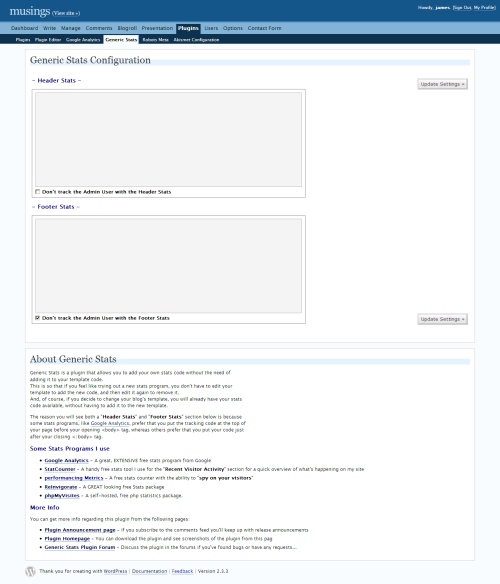
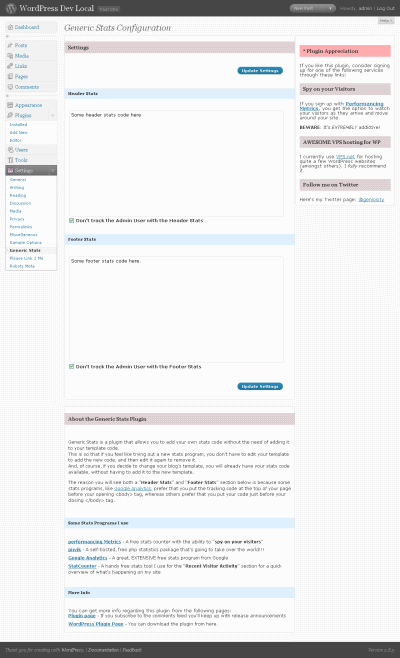
= 1.2 = * 2009/11/01 * Updated look & feel of admin page * Changed to use new "get options" methods * Added pretty little "Plugin Appreciation" box on the Admin page * Updated links to the plugin's pages
git-svn-id: https://plugins.svn.wordpress.org/generic-stats/trunk@169783 b8457f37-d9ea-0310-8a92-e5e31aec5664

Changed region(s): [[0.0, 0.524, 1.0, 1.0], [0.0, 0.0, 1.0, 0.4315], [0.84, 0.524, 0.93, 0.5548]]

diff --git a/genstats.php b/genstats.php
@@ -1,167 +1,156 @@
 <?php
 /*
 Plugin Name: Generic Stats
-Plugin URI: http://www.geniosity.co.za/tools/wordpress/
-Description: This plugin allows you to add any stats code to either the Header of Footer of your posts.
+Plugin URI: http://www.geniosity.co.za/tools/wordpress-hacks/generic-statistics-wordpress-plugin/
+Description: This plugin allows you to add any stats code to either the Header or Footer of your posts.
 Author: James McMullan
-Version: 1.1
+Version: 1.2
 Author URI: http://www.geniosity.co.za/
 */
 
-if ( ! class_exists( 'GenStats_Admin' ) ) {
+if(!class_exists( 'GenStats_Admin')) {
 
-	class GenStats_Admin {
-		function add_config_page() {
-			global $wpdb;
-			if ( function_exists('add_submenu_page') ) {
-				add_submenu_page('plugins.php','Generic Stats Configuration', 'Generic Stats', 1, basename(__FILE__),array('GenStats_Admin','config_page'));
-			}
-		} // end add_config_page()
+    class GenStats_Admin {
 
-		function config_page() {
-			if ( isset($_POST['submit']) ) {
-				if (!current_user_can('manage_options')) die(__('You cannot edit the GenStats plugin options.'));
-				check_admin_referer('genstats-udpatesettings');
-			}
+        function GenStats_Admin() {
+            add_action('admin_init', array(&$this,'genstats_init'));
+            add_action('admin_menu', array('GenStats_Admin','add_config_page'));
+            add_action('wp_head',  array('GenStats_Admin','gsAddHeaderStats'), 10);
+            add_action('wp_footer',  array('GenStats_Admin','gsAddFooterStats'), 10);
+        }
 
-			if ( isset($_POST['submit']) ) {
-				if (!current_user_can('manage_options')) die(__('You cannot edit the Robots Meta options.'));
-				check_admin_referer('genstats-udpatesettings');
+        function genstats_init() {
+            register_setting( 'genstats_options', 'GenStats');
+        }
 
-				if (isset($_POST['header-stats'])) {
-					$options['header-stats'] = $_POST['header-stats'];
-				}
+        function gsAddHeaderStats() {
+            $options = get_option('GenStats');
 
-				if (isset($_POST['disable-header-admin-stats'])) {
-					$options['disable-header-admin-stats'] = true;
-				} else {
-					$options['disable-header-admin-stats'] = false;
-				}
-				
-				if (isset($_POST['footer-stats'])) {
-					$options['footer-stats'] = $_POST['footer-stats'];
-				}
+            if ($options['header-stats'] != "") {
+                if (($options['disable-header-admin-stats'] && !current_user_can('edit_posts')) || !$options['disable-header-admin-stats']) {
+                    echo "\n" . stripslashes($options['header-stats']) . "\n";
+                }
+            }
+        }
 
-				if (isset($_POST['disable-footer-admin-stats'])) {
-					$options['disable-footer-admin-stats'] = true;
-				} else {
-					$options['disable-footer-admin-stats'] = false;
-				}
+        function gsAddFooterStats() {
+            $options = get_option('GenStats');
 
-				
-				update_option('GenStats', $options);
+            if ($options['footer-stats'] != "") {
+                if (($options['disable-footer-admin-stats'] && !current_user_can('edit_posts')) || !$options['disable-footer-admin-stats']) {
+                    echo "\n" . stripslashes($options['footer-stats']) . "\n";
+                }
+            }
+        }
 
-			}
-			
-			$options = get_option('GenStats');
+        function add_config_page() {
+        //add_submenu_page('plugins.php','Generic Stats Configuration', 'Generic Stats', 1, basename(__FILE__),array('GenStats_Admin','config_page'));
+            add_options_page('Generic Stats Configuration', 'Generic Stats', 'manage_options', 'genstats_options', array('GenStats_Admin','config_page'));
+        } // end add_config_page()
 
+        function config_page() {
 
-			?>
-			<div class="wrap">
-				<style type="text/css" media="screen">
-					p {
-						max-width: 600px;
-					}
-				</style>
-				<h2>Generic Stats Configuration</h2>
-				<fieldset>
-					<form action="" method="post" id="genstats-conf">
-						<?php if (function_exists('wp_nonce_field')) { wp_nonce_field('genstats-udpatesettings'); } ?>
-						<h3>- Header Stats -</h3>
-						<span style="float: right; margin-top: -30px;" class="submit"><input type="submit" name="submit" value="Update Settings &raquo;" /></span>
-						<table style="border: 1px solid grey; padding: 5px;">
-							<tr>
-								<td style="width: 30px;">
-									<textarea cols="100" rows="15" name="header-stats"><?php echo stripslashes($options['header-stats']) ?></textarea>
-								</td>
-							</tr>
-							<tr>
-								<td style="width: 30px;">
-									<input type="checkbox" id="disable-header-admin-stats" name="disable-header-admin-stats" <?php if ( $options['disable-header-admin-stats'] == true ) echo ' checked="checked" '; ?>/>
-									<label for="disable-header-admin-stats"><b>Don't track the Admin User with the Header Stats</b></label>
-								</td>
-							</tr>
-						</table>
+            ?>
 
-						<h3>- Footer Stats -</h3>
-						<table style="border: 1px solid grey; padding: 5px;">
-							<tr>
-								<td style="width: 30px;">
-									<textarea cols="100" rows="15" name="footer-stats"><?php echo stripslashes($options['footer-stats']) ?></textarea>
-								</td>
-							</tr>
-							<tr>
-								<td style="width: 30px;">
-									<input type="checkbox" id="disable-footer-admin-stats" name="disable-footer-admin-stats" <?php if ( $options['disable-footer-admin-stats'] == true ) echo ' checked="checked" '; ?>/>
-									<label for="disable-footer-admin-stats"><b>Don't track the Admin User with the Footer Stats</b></label>
-								</td>
-							</tr>
-						</table>
-						<span style="float: right; margin-top: -30px;" class="submit"><input type="submit" name="submit" value="Update Settings &raquo;" /></span>
-					</form>
-				</fieldset>
-				<br/><br/>
+<div class="wrap">
+    <h2>Generic Stats Configuration</h2>
+    <div class="postbox" style="width:20%;float:right;padding:10px;">
+        <h4 style="padding: 10px; background: #FFAFB2; font-family: Georgia,'Times New Roman','Bitstream Charter',Times,serif;">* Plugin Appreciation</h4>
+        If you like this plugin, consider signing up for one of the following services through these links:
+        <h4 style="padding: 10px; background: #DFD1D3; font-family: Georgia,'Times New Roman','Bitstream Charter',Times,serif;">Spy on your Visitors</h4>
+			If you sign up with <b><a href="http://pmetrics.performancing.com/480">Performancing Metrics</a></b>, you get the option to watch your visitors as they arrive and move around your site.
+        <p>
+            <b>BEWARE</b>: It's <i>EXTREMELY</i> addictive!
+        </p>
+        <h4 style="padding: 10px; background: #DFD1D3; font-family: Georgia,'Times New Roman','Bitstream Charter',Times,serif;">AWESOME VPS hosting for WP</h4>
+			I currently use <a href="http://manage.aff.biz/z/146/CD2453/&subid1=pl2me">VPS.net</a> for hosting quite a few WordPress websites (amongst others). I <i>fully</i> recommend it.
+        <h4 style="padding: 10px; background: #DFD1D3; font-family: Georgia,'Times New Roman','Bitstream Charter',Times,serif;">Follow me on Twitter</h4>
+			Here's my Twitter page: <a href="http://twitter.com/geniosity">@geniosity</a>
 
-			</div>
-			<div class="wrap">
-				<h2>About Generic Stats</h2>
-				<p>
-					Generic Stats is a plugin that allows you to add your own stats code without the need of adding it to your template code.<br />
-					This is so that if you feel like trying out a new stats program, you don't have to edit your template to add the new code, and then edit it again to remove it.<br />
-					And, of course, if you decide to change your blog's template, you will already have your stats code available, without having to add it to the new template.<br />
-				</p>
-				<p>
-					The reason you will see both a "<b>Header Stats</b>" and "<b>Footer Stats</b>" section below is because some stats programs, like <a href="http://www.google.com/analytics/">Google Analytics</a>, prefer that you put the tracking code at the top of your page before your opening &lt;body&gt; tag, whereas others prefer that you put your code just after your closing &lt;/body&gt; tag.
-				</p>
-				<p>
-					<h3>Some Stats Programs I use</h3>
-					<ul>
-						<li><b><a href="http://www.google.com/analytics/">Google Analytics</a></b> - A great, EXTENSIVE free stats program from Google</li>
-						<li><b><a href="http://www.statcounter.com">StatCounter</a></b> - A handy free stats tool I use for the "<b>Recent Visitor Activity</b>" section for a quick overview of what's happening on my site</li>
-						<li><b><a href="http://pmetrics.performancing.com/480">performancing Metrics</a></b> - A free stats counter with the ability to "<b>spy on your visitors</b>"</li>
-						<li><b><a href="http://www.reinvigorate.net/">ReInvigorate</a></b> - A GREAT looking free Stats package</li>
-						<li><b><a href="http://www.phpmyvisites.us/">phpMyVisites</a></b> - A self-hosted, free php statistics package.</li>
-					</ul>
-				</p>
-				<p>
-					<h3>More Info</h3>
-					You can get more info regarding this plugin from the following pages:
-					<ul>
-						<li><b><a href="http://www.geniosity.co.za/musings/wordpress/wordpress-generic-statistics-plugin/">Plugin Announcement page</a></b> - If you subscribe to the comments feed you'll keep up with release announcements</li>
-						<li><b><a href="http://www.geniosity.co.za/wordpress/generic-statistics-wordpress-plugin">Plugin Homepage</a></b> - You can download the plugin and see screenshots of the plugin from this pag</li>
-						<li><b><a href="http://www.geniosity.co.za/forums/tools/wordpress/generic-stats-plugin">Generic Stats Plugin Forum</a></b> - Discuss the plugin in the forums if you've found bugs or have any requests...</li>
-					</ul>
-				</p>
-			</div>
+    </div>
 
-<?php			
-		}
-	}
+    <div class="main-settings" style="display:table;width:70%;">
+        <div class="postbox">
+            <h4 style="padding: 10px; background: #DFD1D3; font-family: Georgia,'Times New Roman','Bitstream Charter',Times,serif;">Settings</h4>
+            <form method="post" action="options.php">
+                            <?php settings_fields('genstats_options'); ?>
+                            <?php $options = get_option('GenStats'); ?>
+                <div class="submit" style="text-align: right; padding-right:5%;"><input type="submit" class="button-primary" name="submit" value="Update Settings" /></div>
+                <h5 style="padding: 10px; background: #DFF1FF; font-family: Georgia,'Times New Roman','Bitstream Charter',Times,serif;">Header Stats</h5>
+                <table style="margin: 10px;">
+                    <tr>
+                        <td>
+                            <textarea cols="80" rows="15" name="GenStats[header-stats]"><?php echo stripslashes($options['header-stats']) ?></textarea>
+                        </td>
+                    </tr>
+                    <tr>
+                        <td>
+                            <input type="checkbox" id="disable-header-admin-stats" name="GenStats[disable-header-admin-stats]" <?php if ( $options['disable-header-admin-stats'] == true ) echo ' checked="checked" '; ?>/>
+                            <label for="disable-header-admin-stats"><b>Don't track the Admin User with the Header Stats</b></label>
+                        </td>
+                    </tr>
+                </table>
+
+                <h5 style="padding: 10px; background: #DFF1FF; font-family: Georgia,'Times New Roman','Bitstream Charter',Times,serif;">Footer Stats</h5>
+                <table style="margin: 10px;">
+                    <tr>
+                        <td>
+                            <textarea cols="80" rows="15" name="GenStats[footer-stats]"><?php echo stripslashes($options['footer-stats']) ?></textarea>
+                        </td>
+                    </tr>
+                    <tr>
+                        <td>
+                            <input type="checkbox" id="disable-footer-admin-stats" name="GenStats[disable-footer-admin-stats]" <?php if ( $options['disable-footer-admin-stats'] == true ) echo ' checked="checked" '; ?>/>
+                            <label for="disable-footer-admin-stats"><b>Don't track the Admin User with the Footer Stats</b></label>
+                        </td>
+                    </tr>
+                </table>
+                <div class="submit" style="text-align: right; padding-right:5%;"><input type="submit" class="button-primary" name="submit" value="Update Settings" /></div>
+            </form>
+        </div>
+
+        <div class="postbox" style="display:table;">
+            <h4 style="padding: 10px; background: #DFD1D3; font-family: Georgia,'Times New Roman','Bitstream Charter',Times,serif;">About the Generic Stats Plugin</h4>
+            <div class="postbox-content" style="padding: 10px;">
+                <p>
+                    Generic Stats is a plugin that allows you to add your own stats code without the need of adding it to your template code.<br />
+                    This is so that if you feel like trying out a new stats program, you don't have to edit your template to add the new code, and then edit it again to remove it.<br />
+                    And, of course, if you decide to change your blog's template, you will already have your stats code available, without having to add it to the new template.<br />
+                </p>
+                <p>
+                    The reason you will see both a "<b>Header Stats</b>" and "<b>Footer Stats</b>" section below is because some stats programs, like <a href="http://www.google.com/analytics/">Google Analytics</a>, prefer that you put the tracking code at the top of your page before your opening &lt;body&gt; tag, whereas others prefer that you put your code just before your closing &lt;/body&gt; tag.
+                </p>
+            </div>
+            <p>
+            <h5 style="padding: 10px; background: #DFF1FF; font-family: Georgia,'Times New Roman','Bitstream Charter',Times,serif;">Some Stats Programs I use</h5>
+            <div class="postbox-content" style="padding: 10px;">
+                <ul>
+                    <li><b><a href="http://pmetrics.performancing.com/480">performancing Metrics</a></b> - A free stats counter with the ability to "<b>spy on your visitors</b>"</li>
+                    <li><b><a href="http://piwik.org/">piwik</a></b> - A self-hosted, free php statistics package that's going to take over the world!!!</li>
+                    <li><b><a href="http://www.google.com/analytics/">Google Analytics</a></b> - A great, EXTENSIVE free stats program from Google</li>
+                    <li><b><a href="http://www.statcounter.com">StatCounter</a></b> - A handy free stats tool I use for the "<b>Recent Visitor Activity</b>" section for a quick overview of what's happening on my site</li>
+                </ul>
+            </div>
+            </p>
+            <p>
+            <h5 style="padding: 10px; background: #DFF1FF; font-family: Georgia,'Times New Roman','Bitstream Charter',Times,serif;">More Info</h5>
+            <div class="postbox-content" style="padding: 10px;">
+                You can get more info regarding this plugin from the following pages:
+                <ul>
+                    <li><b><a href="http://www.geniosity.co.za/tools/wordpress-hacks/generic-statistics-wordpress-plugin/">Plugin page</a></b> - If you subscribe to the comments feed you'll keep up with release announcements</li>
+                    <li><b><a href="http://wordpress.org/extend/plugins/generic-stats/">WordPress Plugin Page</a></b> - You can download the plugin from here.</li>
+                </ul>
+            </div>
+            </p>
+        </div>
+    </div>
+</div>
+
+        <?php
+        }
+    }
+
+    $genstatsadmin = new GenStats_Admin();
 }
-
-function gsAddHeaderStats() {
-	$options = get_option('GenStats');
-	
-	if ($options['header-stats'] != "") {
-		if (($options['disable-header-admin-stats'] && !current_user_can('edit_posts')) || !$options['disable-header-admin-stats']) {
-			echo "\n" . stripslashes($options['header-stats']) . "\n";
-		}
-	}
-
-}
-function gsAddFooterStats() {
-	$options = get_option('GenStats');
-	
-	if ($options['footer-stats'] != "") {
-		if (($options['disable-footer-admin-stats'] && !current_user_can('edit_posts')) || !$options['disable-footer-admin-stats']) {
-			echo "\n" . stripslashes($options['footer-stats']) . "\n";
-		}
-	}
-
-}
-
-add_action('admin_menu', array('GenStats_Admin','add_config_page'));
-add_action('wp_head', 'gsAddHeaderStats', 10);
-add_action('wp_footer', 'gsAddFooterStats', 10);
 
 ?>
